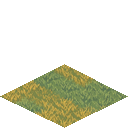
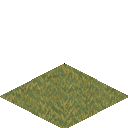
fix: lam texture dat nen lien mach, khong lo vien/day giua cac o
- Tao texture co tuan hoan tu mau datnen: mean + song sine + nhieu + chi tiet co radius nho
- Mask hinh thoi opaque, khong con trong suot o mep
- Pre-pass ve du 1px moi canh de khong lo khe giua tile

Changed region(s): [[0.0, 0.5, 1.0, 1.0]]

diff --git a/src/engine/canvasRenderer.js b/src/engine/canvasRenderer.js
@@ -1640,7 +1640,11 @@ export function createCanvasRenderer(ctx) {
       if (isImageReady(meadowBase)) {
         for (let i = 0; i < ROWS; i++) {
           for (let j = 0; j < COLS; j++) {
-            c2d.drawImage(meadowBase, ORIGIN_X + (j - i) * HALF_W, ORIGIN_Y + (i + j) * QUARTER_W);
+            const bx = ORIGIN_X + (j - i) * HALF_W;
+            const by = ORIGIN_Y + (i + j) * QUARTER_W;
+            // Phủ dư 1px mỗi cạnh để các tam giác mép tile chồng lên nhau,
+            // không lộ đường viền/đáy giữa các ô cỏ.
+            c2d.drawImage(meadowBase, bx - 1, by - 1, 130, 130);
           }
         }
       }
